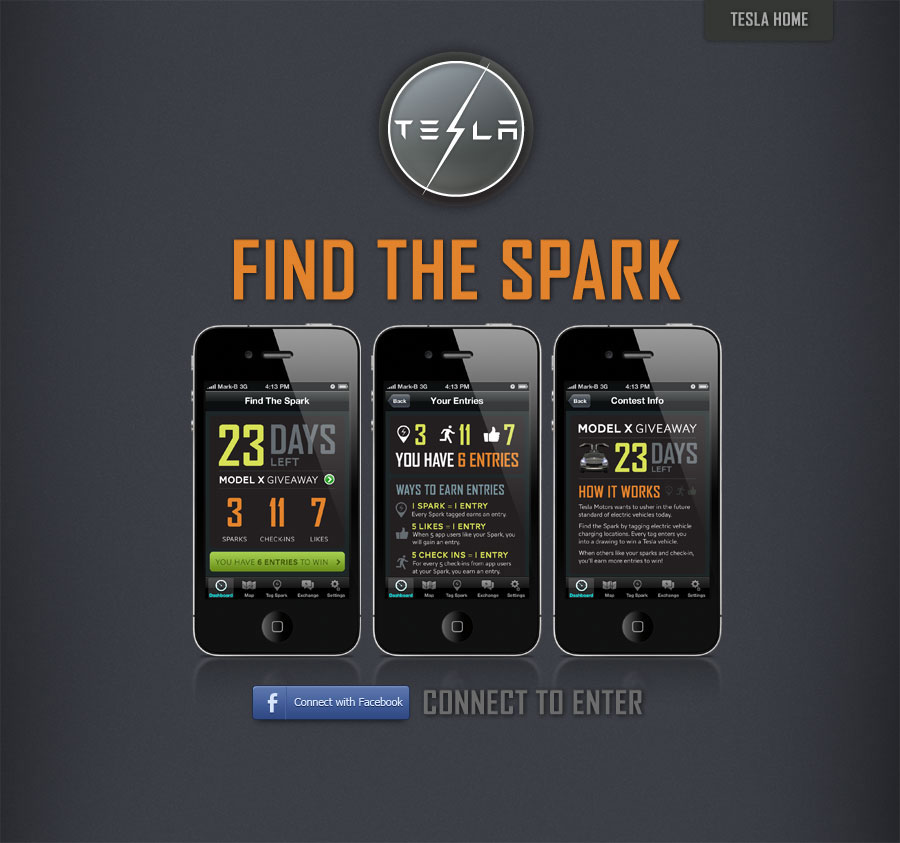
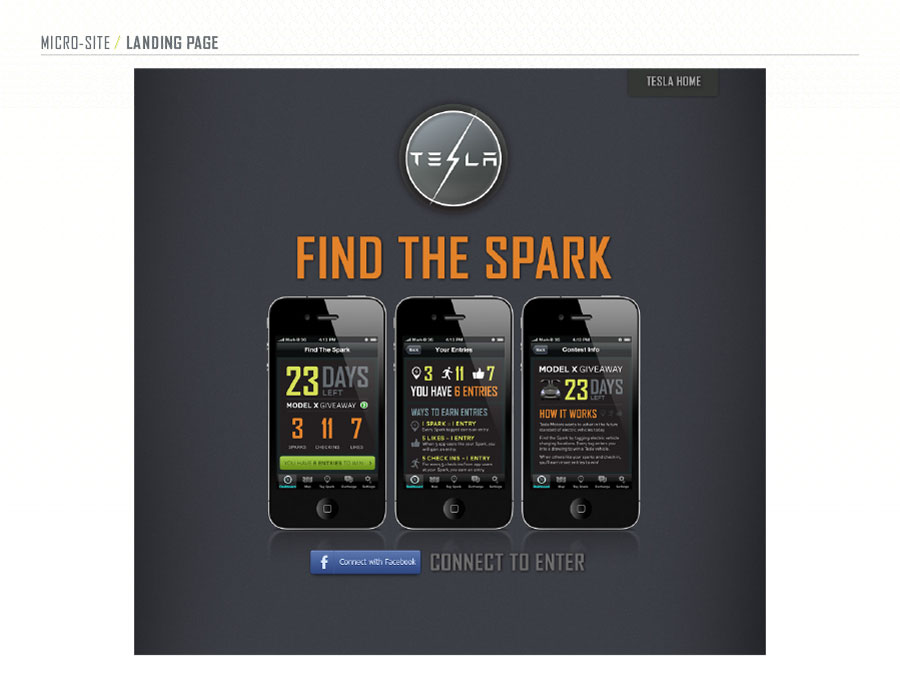
Tesla updates * Description:
* Notes:

* Actions:

diff --git a/tesla/index.html b/tesla/index.html
@@ -103,8 +103,10 @@
 				<div>
 					<img src="assets/tesla-microSite-1.jpg" alt="tesla-microSite-1" width="900" height="" />
 					<div class="10pBottom"></div>
-					<img class="first" src="assets/tesla-microSite-2.jpg" alt="tesla-microSite-2" width="217" height="" />
-					<img class="last" src="assets/tesla-microSite-3.jpg" alt="tesla-microSite-3" width="217" height="" />
+					
+					
+					<img class="first" src="assets/tesla-microSite-2.jpg" alt="tesla-microSite-2" width="445" height="" />
+					<img class="last" src="assets/tesla-microSite-3.jpg" alt="tesla-microSite-3" width="445" height="" />
 				</div>
 			</div>
 		</div>
@@ -112,13 +114,24 @@
 		
 		<div class="photos">
 			<div class="whiteCont">
-				<video id="player_c" class="projekktor first" poster="assets/intro.png" title="this is projekktor" width="671" height="442" >
+				<video id="player_c" class="projekktor first" poster="assets/intro.png" title="this is projekktor" width="900" height="506" >
 			    	<source src="http://www.mark-b.com/new/video/MarkPersona_6.mov" type="video/mp4" />
 			    </video>
-			    <img class="pLeft" src="assets/mobile-tesla-1.jpg" alt="mobile-tesla-1" width="" height="" />
 			    <div class="pBottom"></div>
-			    <img class="first" src="assets/mobile-tesla-2.jpg" alt="mobile-tesla-2" width="" height="" />
-
+				<img src="assets/mobile1.jpg" alt="tesla-microSite-1" width="900" height="" />
+				<div class="10pBottom"></div>
+				<img src="assets/mobile2.jpg" alt="tesla-microSite-1" width="900" height="" />
+				<div class="10pBottom"></div>
+				<img src="assets/mobile3.jpg" alt="tesla-microSite-1" width="900" height="" />
+				<div class="10pBottom"></div>
+				<img src="assets/mobile4.jpg" alt="tesla-microSite-1" width="900" height="" />
+				<div class="10pBottom"></div>
+				<img src="assets/mobile5.jpg" alt="tesla-microSite-1" width="900" height="" />
+				<div class="10pBottom"></div>
+				<img src="assets/mobile6.jpg" alt="tesla-microSite-1" width="900" height="" />
+				<div class="10pBottom"></div>
+				<img src="assets/mobile7.jpg" alt="tesla-microSite-1" width="900" height="" />
+				
 			</div>
 		</div>
 		<!-- emd photo div -->	
